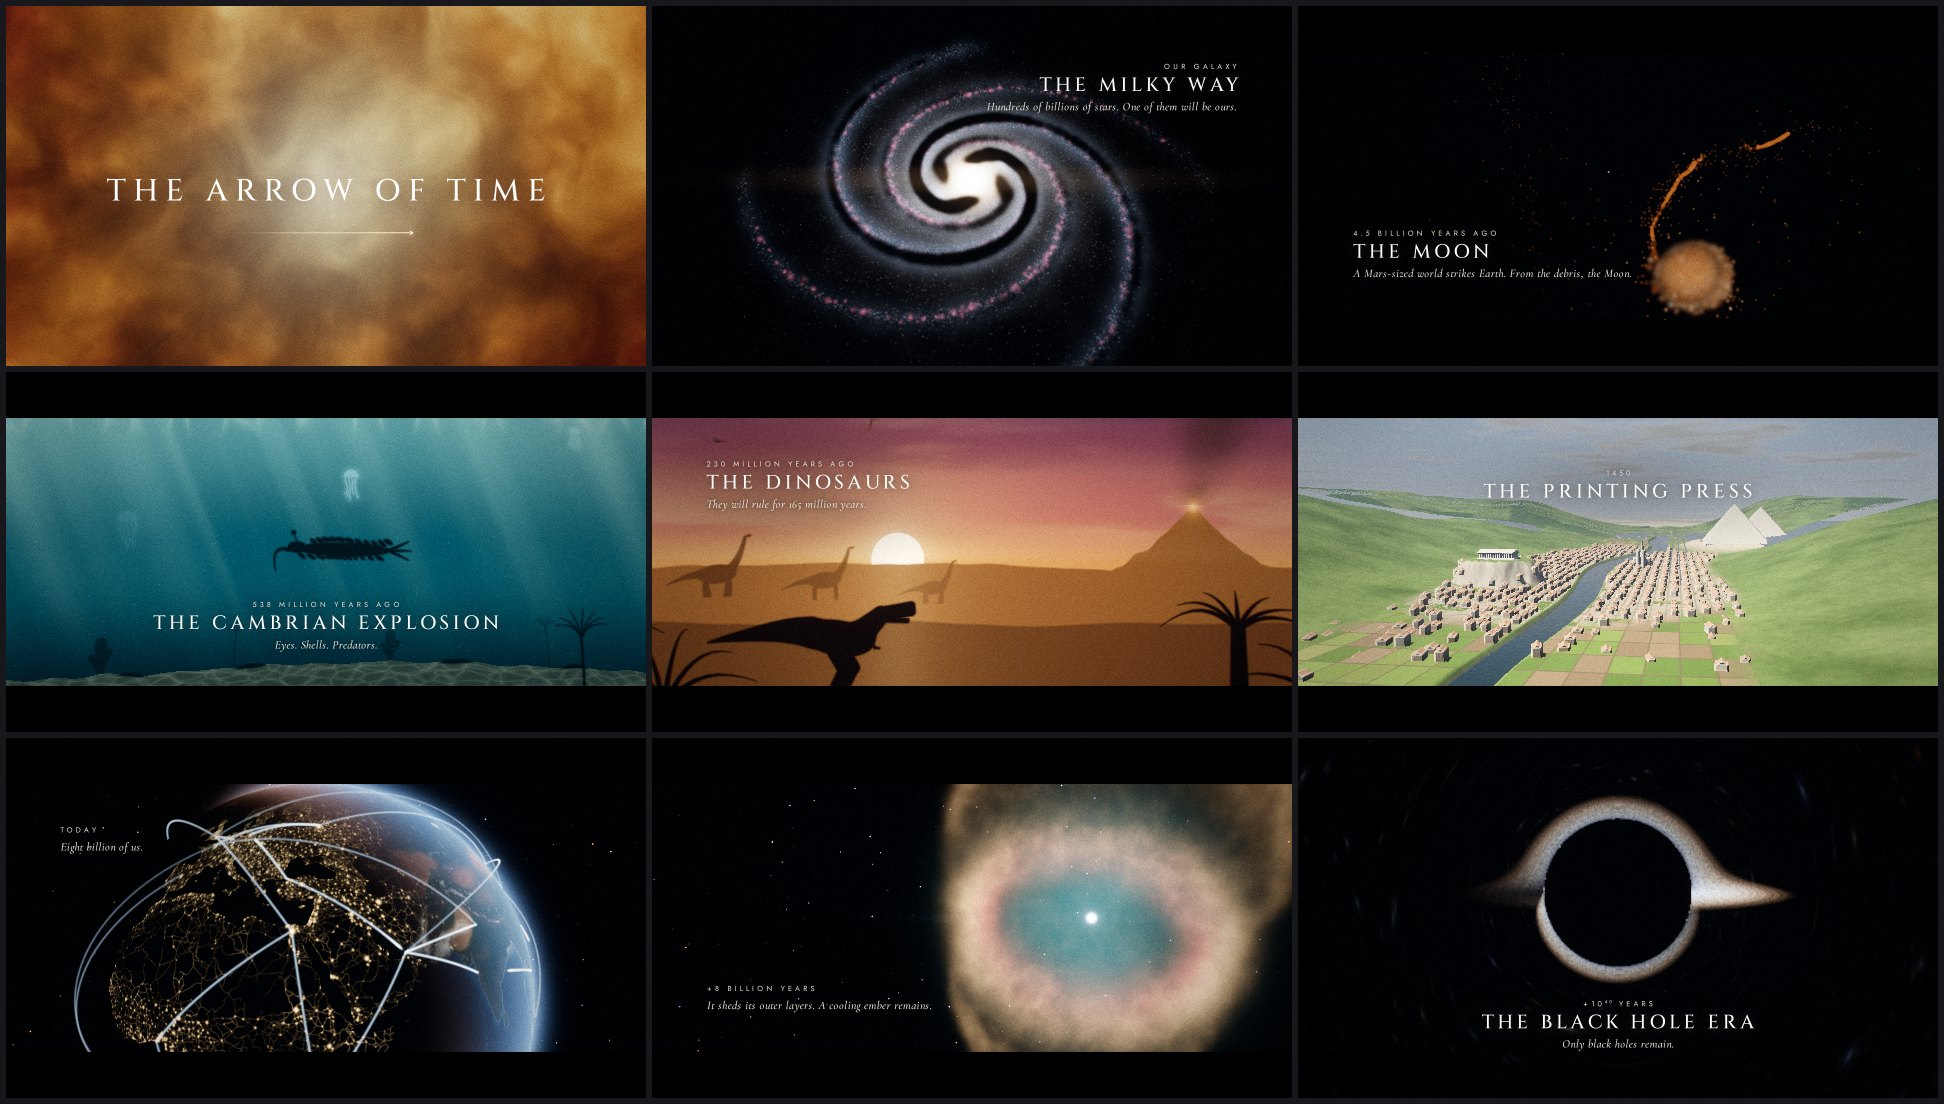
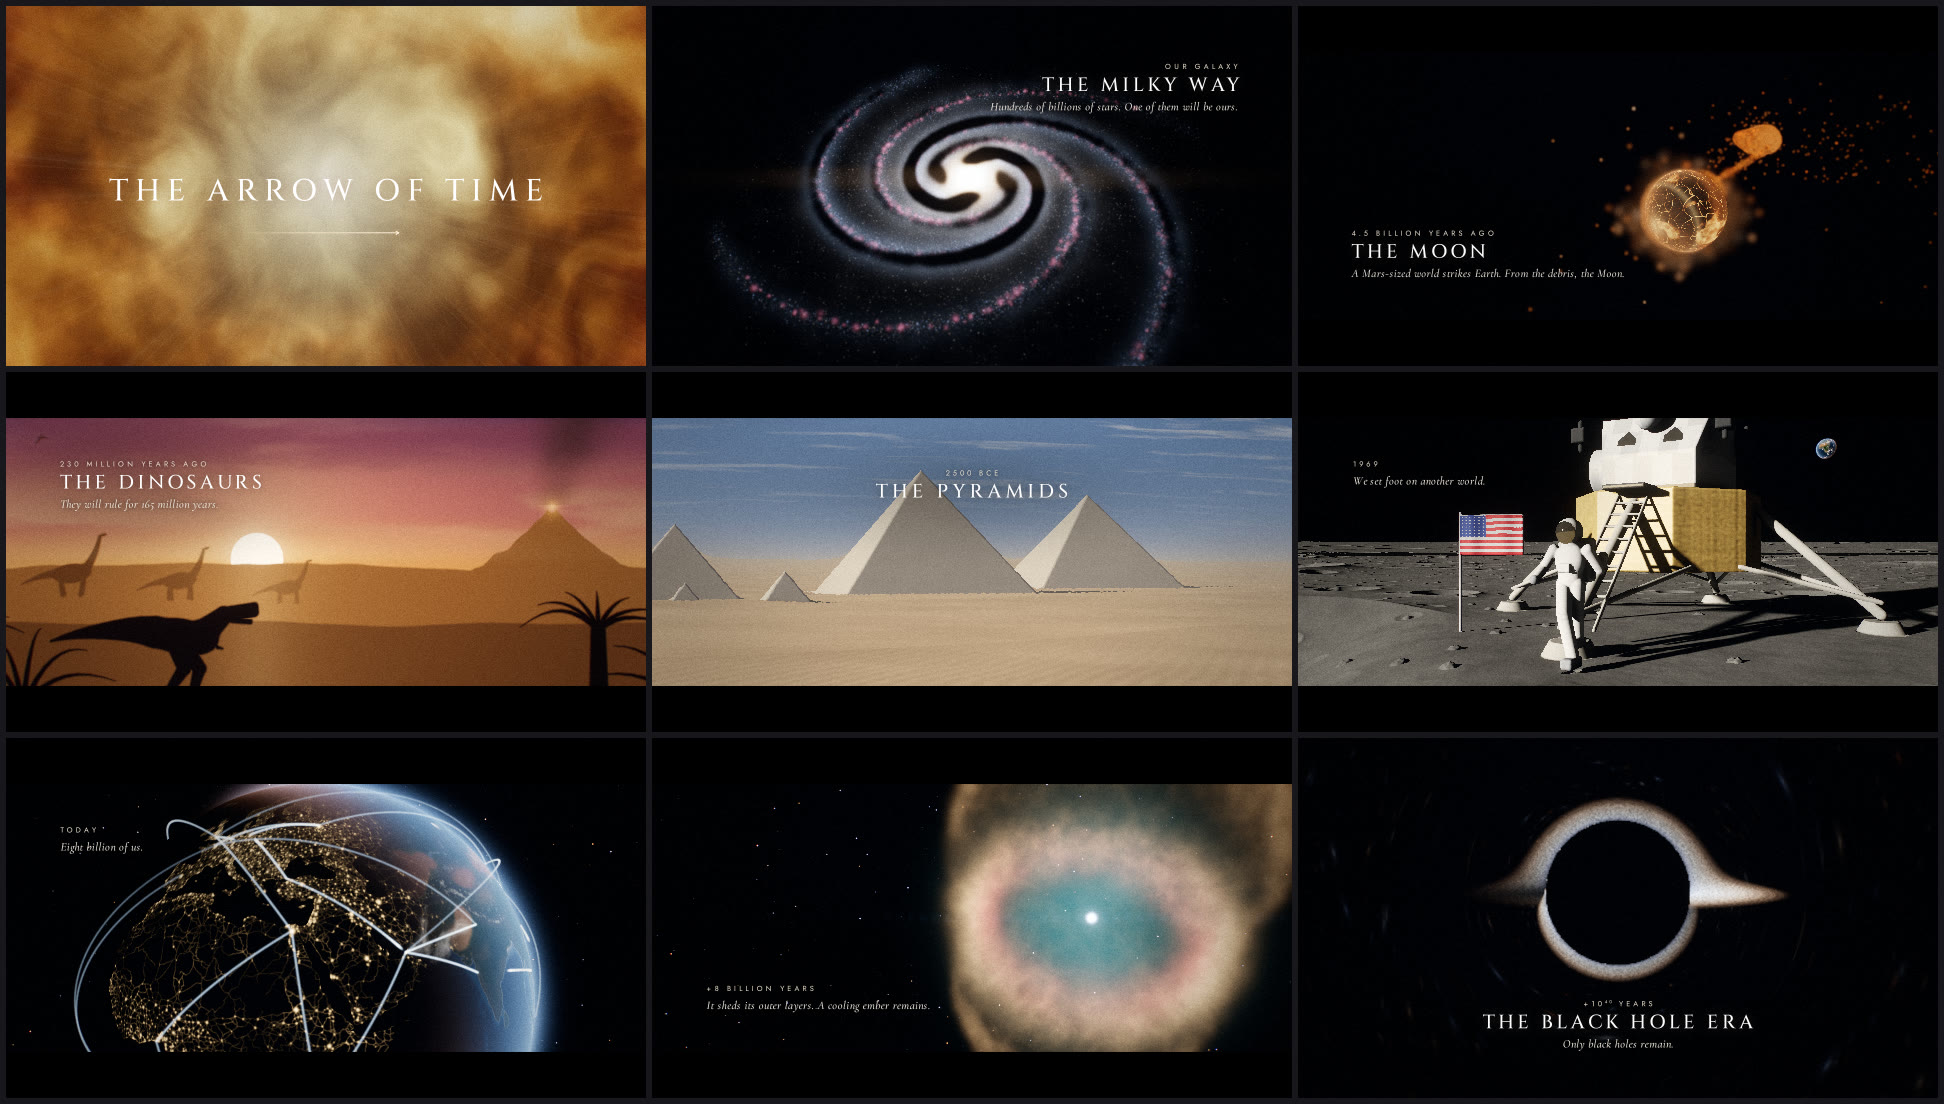
Poster from the v0.4 cut; scene descriptions match the shaders
The README frames now show the continuous Moon-impact shot, Giza and the Moon
landing in place of the old impact and the retired valley. Giza is a summer
afternoon (not dawn), and the press scene's pages dry above the press.

Claude-Session: https://claude.ai/code/session_01EwiY9do7geNiFckRKffHaG

diff --git a/projects/arrow-of-time/README.md b/projects/arrow-of-time/README.md
@@ -33,7 +33,7 @@ at itself. See `MUSIC.md` for the score design.
 | 1:20 | The Sun and Earth | collapsing nebula, protoplanetary disk, molten Earth, Theia impact and the Moon, oceans |
 | 2:00 | Life | deep-sea vent and the first cells, Great Oxidation, Snowball Earth, Cambrian seas, onto land, dinosaurs, the asteroid |
 | 2:46 | Humanity | mammals at dawn, the first people under the Milky Way, hand stencils |
-| 3:06 | Civilization | twelve thousand years in ten scenes: the first harvest, Uruk, a scribe writing cuneiform, Giza, Athens, Gutenberg's press, a steam train, the Wright Flyer, Trinity, a Moon rocket; the first steps on the Moon; Earth at night |
+| 3:06 | Civilization | twelve thousand years in ten scenes: the first harvest, Uruk, a scribe writing cuneiform, Giza, a Greek temple, Gutenberg's press, a steam train, the Wright Flyer, Trinity, a Moon rocket; the first steps on the Moon; Earth at night |
 | 3:48 | Now | the pale blue dot, and silence |
 | 3:56 | The Future | new worlds, drifting constellations, oceans boil away, red giant, white dwarf, Milky Way and Andromeda merge |
 | 4:42 | The End | the last stars, the black hole era, evaporation, the end of time |
@@ -72,12 +72,13 @@ at itself. See `MUSIC.md` for the score design.
   by a moving torch.
 - **Civilization** (`shots/ages.ts`, `shaders/age-*.glsl`): ten ray-marched scenes, one per
   montage card, each a single moving camera: a reaper in a wheat field at golden hour (layered
-  planes of stalks), the White Temple of Uruk above a mud-brick city, a stylus pressing wedges into
-  a clay tablet (an exact height-field intersection), Giza at dawn, the Parthenon's colonnade, a
-  printed page of Genesis in blackletter lifting off a Gutenberg press (canvas text as a texture),
-  a steam train crossing a viaduct under mill chimneys, the Wright Flyer over Kill Devil Hills,
-  the Trinity fireball, and a Saturn V lifting off. Motion blur samples double as anti-aliasing:
-  each one jitters the camera rays by a sub-pixel offset.
+  planes of stalks), the White Temple of Uruk above a mud-brick city, a stylus pressing wedges
+  into a clay tablet (an exact height-field intersection), Giza in its white casing on a summer
+  afternoon, a Doric colonnade above the Aegean at sunset, pages of Genesis in blackletter drying
+  above a Gutenberg press (canvas text as a texture), a steam train crossing a viaduct under mill
+  chimneys, the Wright Flyer over Kill Devil Hills, the Trinity fireball, and a Saturn V lifting
+  off. Motion blur samples double as anti-aliasing: each one jitters the camera rays by a
+  sub-pixel offset.
 - **The Moon landing** (`shots/apollo.ts`, `shaders/apollo.glsl`): the lunar module, an astronaut
   stepping off the ladder, bootprints, rocks and the flag in hard, airless sunlight, with the
   Earth over the horizon.

diff --git a/projects/arrow-of-time/CHANGELOG.md b/projects/arrow-of-time/CHANGELOG.md
@@ -8,10 +8,11 @@ The newest section is used for the release notes. Cuts are published on the
 - **Civilization** is rebuilt as ten scenes, one per card, each a ray-marched set with its own
   light and a moving camera: a reaper with a flint sickle in wild wheat at golden hour, the White
   Temple of Uruk at dusk, a scribe's stylus pressing cuneiform into wet clay, the pyramids of Giza
-  at dawn, a Doric colonnade at sunset, a page of Genesis lifting off Gutenberg's press, a night
-  train on a viaduct under mill chimneys, the Wright Flyer over Kill Devil Hills, the Trinity
-  fireball, and a Saturn V lifting off under searchlights. The cards now read 2500 BCE for the
-  pyramids (when all three stood) and 1830 for industry (the railway age).
+  in their white limestone casing, a Doric colonnade at sunset, printed pages of Genesis drying
+  above Gutenberg's press, a night train on a viaduct under mill chimneys, the Wright Flyer over
+  Kill Devil Hills, the Trinity fireball, and a Saturn V lifting off under searchlights. The cards
+  now read 2500 BCE for the pyramids (when all three stood) and 1830 for industry (the railway
+  age).
 - **The Moon landing** is a 3D scene: the lunar module on a cratered plain under a low Sun, an
   astronaut stepping off the ladder onto the regolith on the beat, a bootprint, a kick of dust
   on ballistic arcs, the flag, and the real Earth above the horizon as the camera cranes back.
